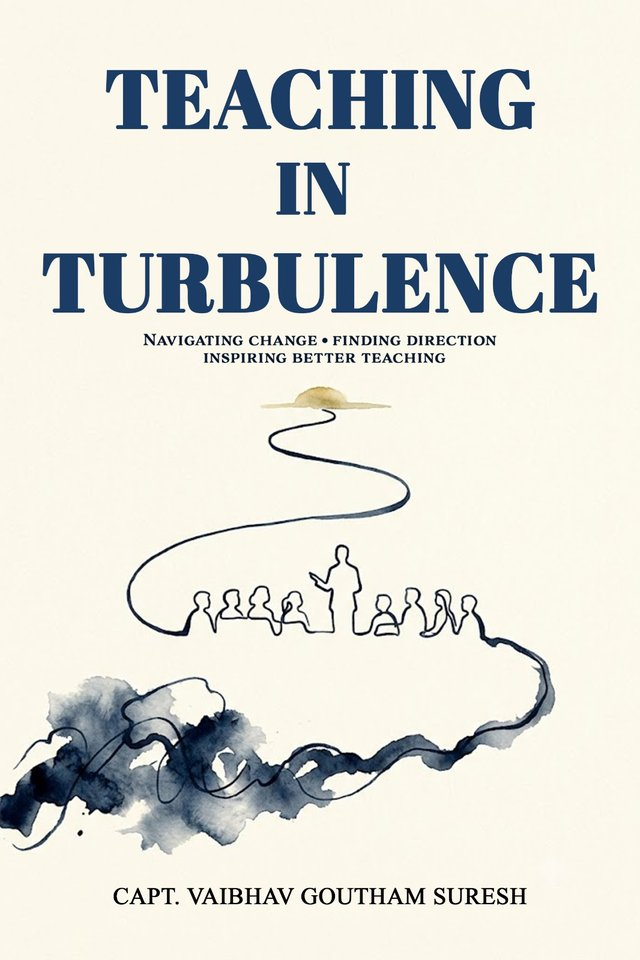
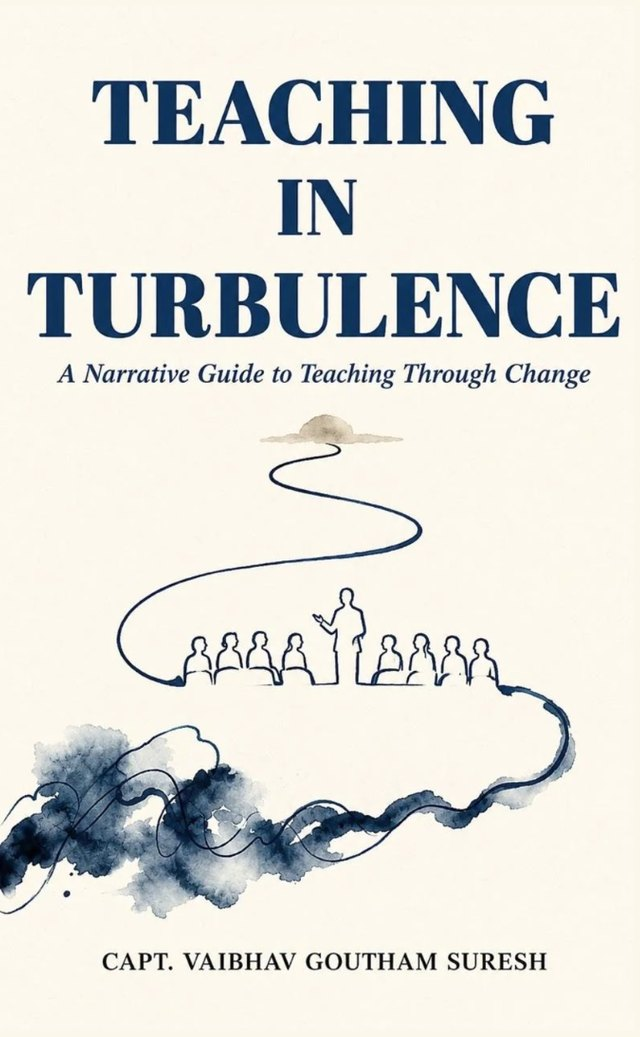
Add final cover, full foreword and updated author text
Claude-Session: https://claude.ai/code/session_01JsisHFJQv3rMVfURYEUcmk

diff --git a/index.html b/index.html
@@ -4,7 +4,7 @@
 <meta charset="utf-8">
 <meta name="viewport" content="width=device-width, initial-scale=1">
 <title>Teaching in Turbulence | Capt. Vaibhav Goutham Suresh</title>
-<meta name="description" content="Teaching in Turbulence: A Narrative Guide to Teaching in Indian Higher Education, by Capt. Vaibhav Goutham Suresh. Foreword by Shri Anand Kumar. Out 7 December 2026.">
+<meta name="description" content="Teaching in Turbulence: A Narrative Guide to Teaching Through Change, by Capt. Vaibhav Goutham Suresh. Foreword by Shri Anand Kumar. Out 7 December 2026.">
 <meta property="og:title" content="Teaching in Turbulence">
 <meta property="og:description" content="A book you read like a novel and use like a manual. Out 7 December 2026.">
 <meta property="og:image" content="https://teachinginturbulence.com/assets/cover.jpg">
@@ -73,7 +73,7 @@ header{position:sticky;top:0;z-index:20;background:rgba(251,247,236,.94);backdro
 .cover-wrap{position:relative;justify-self:center}
 .cover-wrap::before{content:"";position:absolute;inset:-34px -40px -20px;background:radial-gradient(closest-side,rgba(241,222,179,.85),rgba(241,222,179,0));z-index:0}
 .cover{position:relative;z-index:1;width:min(380px,100%);border-radius:4px 10px 10px 4px;box-shadow:0 2px 0 rgba(0,0,0,.04),0 28px 60px -12px rgba(27,60,101,.38),0 10px 22px rgba(27,60,101,.12);transform:rotate(1.5deg)}
-.launch-tag{position:absolute;z-index:2;left:-34px;bottom:46px;background:var(--white);border:1px solid var(--line);border-radius:14px;padding:12px 16px;box-shadow:0 12px 30px rgba(27,60,101,.14);font:600 13px/1.3 var(--sans);color:var(--muted)}
+.launch-tag{position:absolute;z-index:2;left:-40px;bottom:-26px;background:var(--white);border:1px solid var(--line);border-radius:14px;padding:12px 16px;box-shadow:0 12px 30px rgba(27,60,101,.14);font:600 13px/1.3 var(--sans);color:var(--muted)}
 .launch-tag b{display:block;font:800 20px/1.2 var(--serif);color:var(--ink)}
 .storm{position:absolute;left:-40px;bottom:-10px;width:560px;opacity:.35;pointer-events:none}
 .signup{position:relative;overflow:hidden}
@@ -156,7 +156,15 @@ section.block{padding:96px 0}
 .fw-role{font-size:18px;color:var(--gold-soft);margin:8px 0 28px}
 .fw-quote{margin:0 0 28px;padding:4px 0 4px 26px;border-left:4px solid var(--gold);font:italic 600 26px/1.45 var(--serif);color:var(--white)}
 .fw-quote .todo{display:inline-block;font:500 16px/1.5 var(--sans);font-style:normal;color:var(--ink);background:var(--gold-soft);border-radius:8px;padding:8px 12px}
-.fw-text>p:last-child{font-size:18px;margin:0}
+.fw-intro{font-size:18px;margin:0 0 28px}
+.fw-toggle{background:var(--gold);color:var(--ink);border:0;cursor:pointer}
+.fw-toggle:hover{background:var(--gold-soft)}
+.fw-full{margin-top:56px}
+.fw-paper{background:var(--cream);color:var(--text);border-radius:22px;padding:56px clamp(24px,7vw,110px);max-width:860px;margin:0 auto;font:400 19px/1.75 "Bitter",Georgia,serif;box-shadow:0 30px 60px -20px rgba(0,0,0,.45)}
+.fw-paper .eyebrow{color:var(--gold);font-family:var(--sans)}
+.fw-paper p{margin:0 0 20px}
+.fw-sign{margin-top:36px !important;font-family:var(--sans);font-size:17px;line-height:1.5;color:var(--muted)}
+.fw-sign strong{font:800 22px var(--serif);color:var(--ink)}
 
 /* Audience */
 .aud-grid{display:grid;grid-template-columns:repeat(3,1fr);gap:22px}
@@ -228,6 +236,8 @@ footer a:hover{color:var(--white);text-decoration:underline}
   .fw-grid{grid-template-columns:1fr;gap:40px}
   .foreword{padding:68px 0}
   .fw-quote{font-size:21px}
+  .fw-paper{padding:30px 22px;font-size:17px}
+  .fw-full{margin-top:36px}
   .strip .wrap{flex-direction:column}
   .strip .label{margin:0 0 6px}
   .strip ul{justify-content:center;font-size:15px;row-gap:8px}
@@ -279,7 +289,7 @@ footer a:hover{color:var(--white);text-decoration:underline}
 <section class="hero">
   <div class="wrap hero-grid">
     <div>
-      <p class="eyebrow">A Narrative Guide to Teaching in Indian Higher Education</p>
+      <p class="eyebrow">A Narrative Guide to Teaching Through Change</p>
       <h1>Turbulence is not something to fear. <em>It is something to navigate.</em></h1>
       <p class="lead">Every week, hundreds of young people walk into a classroom and trust that the person at the front knows how to teach them. Most of those teachers were never taught how. <strong>Teaching in Turbulence</strong> is written to close that gap.</p>
       <div class="cta-row">
@@ -413,7 +423,35 @@ footer a:hover{color:var(--white);text-decoration:underline}
       <p class="eyebrow">The Foreword</p>
       <h2>Shri Anand Kumar</h2>
       <p class="fw-role">Founder of Super 30, Padma Shri awardee</p>
-      <p>His life's work is living proof that great teaching can change the entire trajectory of a young person, no matter where they begin. His words speak to the heart of this book: that teaching is not a routine to be performed, but a craft that can be learned, sharpened and honoured.</p>
+      <blockquote class="fw-quote">&ldquo;Sometimes, all that stands between a child and a better future is a teacher who believes in them.&rdquo;</blockquote>
+      <p class="fw-intro">In his foreword, Shri Anand Kumar writes about the ordinary teachers who quietly shape the future of our country, and why, in an age of artificial intelligence, a teacher&rsquo;s belief in a child still changes everything.</p>
+      <button class="btn fw-toggle" type="button" aria-expanded="false" aria-controls="fwFull">Read the full foreword <span class="arrow">&darr;</span></button>
+    </div>
+  </div>
+  <div class="wrap">
+    <div class="fw-full" id="fwFull" hidden>
+      <div class="fw-paper">
+        <p class="eyebrow">Foreword</p>
+          <p>Over the years, I have seen the same dream in the eyes of countless children. A dream of becoming someone. Of rising above poverty. Of being given just one chance to prove what they are capable of.</p>
+          <p>My journey has taught me something simple: talent does not depend on privilege. Sometimes, all that stands between a child and a better future is a teacher who believes in them.</p>
+          <p>Reading Captain Vaibhav&rsquo;s book brought me back to this truth.</p>
+          <p>Much has been written about education. Yet surprisingly little is said about the ordinary teachers who quietly shape the future of our country, often in small classrooms, remote villages, and places where resources are scarce but hopes are not.</p>
+          <p>This book tells their story.</p>
+          <p>It brings together twelve teachers for ten days. Each carries a different burden, a different disappointment, and a different reason to question the path they once chose. But as their journeys unfold, they begin to rediscover something they had almost forgotten: why they wanted to become teachers in the first place.</p>
+          <p>What struck me most about this book is its simplicity and honesty. It reminds us that meaningful education is not necessarily about impressive buildings, expensive technology, or sophisticated facilities. Sometimes, a dedicated teacher in a modest classroom can accomplish what even the finest infrastructure cannot.</p>
+          <p>I have witnessed this throughout my journey with Super 30. Many of the children who came to us could barely afford books, yet their dreams were enormous. Teaching them mathematics was important. But even more important was helping them believe that their circumstances did not have to determine their future.</p>
+          <p>That belief can change everything.</p>
+          <p>We now live in an age of artificial intelligence, when machines can solve complex problems in seconds. But there is something technology cannot easily replace: the ability of a teacher to look into the eyes of a frightened child and say, with genuine conviction, &ldquo;You can do it.&rdquo;</p>
+          <p>Sometimes, those four words are more powerful than an entire textbook.</p>
+          <p>To every teacher reading this, I want to say something from my own experience. There will be days when your efforts seem unnoticed, when progress feels painfully slow, and when you wonder whether anything you do really matters.</p>
+          <p>On those days, remember that somewhere in your classroom may be a child whose entire life will change because of something you said, a little encouragement you offered, or simply because you refused to give up on them.</p>
+          <p>You may never know the difference you made.</p>
+          <p>But that does not make the difference any less real.</p>
+          <p>Perhaps the greatest contribution of a teacher is not what happens inside a classroom today, but what becomes possible in the lives of children tomorrow.</p>
+          <p>Captain Vaibhav&rsquo;s book does more than explore the challenges of teaching. It reminds teachers of the hopes that first brought them into the classroom, and of the extraordinary influence they continue to have, often without realising it.</p>
+          <p>At a time when education is increasingly measured by marks, rankings, and technology, that is a reminder worth holding on to.</p>
+        <p class="fw-sign"><strong>Anand Kumar</strong><br>Founder, Super 30<br>Padma Shri Awardee</p>
+      </div>
     </div>
   </div>
 </section>
@@ -440,7 +478,7 @@ footer a:hover{color:var(--white);text-decoration:underline}
       <p class="eyebrow">About the author</p>
       <h2>From the cockpit to the classroom</h2>
       <p>Capt. Vaibhav Goutham Suresh writes from a path very few in academia have travelled. He began his working life in the cockpit as a commercial pilot, and went on to work across almost every corner of the aviation industry before turning to teaching and academic leadership. That journey, from flying to management to the classroom, is the reason this book sounds like no other. It is written by someone who has had to learn, unlearn and relearn his own craft in the real world, under real pressure, in a profession where mistakes carry consequences.</p>
-      <p>He holds a Commercial Pilot Licence, an MBA from IIM Bangalore and Toulouse Business School, and a degree in law, and is completing doctoral research on the Indian airline industry. Today he leads a university school spanning aviation, logistics and tourism, and chairs academic policy across a group of non-engineering schools. His work sits at the centre of how teaching is actually shaped: redesigning programmes and curricula, reforming the way students are assessed, giving real-world experience genuine academic weight, and building the structures through which a large faculty is mentored, trained and renewed. Developing teachers is not a side interest for him. It is the heart of what he does, and this book grows directly out of that work.</p>
+      <p>He holds a Commercial Pilot Licence, an MBA from IIM Bangalore and Toulouse Business School, and a degree in law, and is completing doctoral research on the Indian airline industry. Today he leads a university school and chairs academic policy across a group of non-engineering schools. His work sits at the centre of how teaching is actually shaped: redesigning programmes and curricula, reforming the way students are assessed, giving real-world experience genuine academic weight, and building the structures through which a large faculty is mentored, trained and renewed. Developing teachers is the heart of what he does, and this book grows directly out of that work.</p>
       <p>What drives him, and this book, is a simple conviction: that teaching in India deserves to be approached with the same rigour, honesty and care as any high-stakes profession. Teaching in Turbulence is his effort to place that conviction in the hands of every teacher who wants to do the work, and do it well.</p>
     </div>
   </div>
@@ -492,6 +530,10 @@ function tick(){let s=Math.max(0,(launch-new Date())/1000);
   document.getElementById('h').textContent=String(Math.floor(s%86400/3600)).padStart(2,'0');
   document.getElementById('m').textContent=String(Math.floor(s%3600/60)).padStart(2,'0');}
 tick();setInterval(tick,30000);
+const fwBtn=document.querySelector('.fw-toggle'),fwFull=document.getElementById('fwFull');
+fwBtn.addEventListener('click',()=>{const open=fwFull.hidden;fwFull.hidden=!open;fwBtn.setAttribute('aria-expanded',open);
+  fwBtn.innerHTML=open?'Close the foreword <span class="arrow">&uarr;</span>':'Read the full foreword <span class="arrow">&darr;</span>';
+  if(!open)document.getElementById('foreword').scrollIntoView({behavior:'smooth'});});
 document.getElementById('signupForm').addEventListener('submit',e=>{e.preventDefault();document.querySelector('#signupForm .fine').textContent='Thank you. Sign-ups open very soon, please check back shortly.'});
 </script>
 </body>

diff --git a/README.md b/README.md
@@ -1,6 +1,6 @@
 # Teaching in Turbulence
 
-*A Narrative Guide to Teaching in Indian Higher Education*, by Capt. Vaibhav Goutham Suresh.
+*A Narrative Guide to Teaching Through Change*, by Capt. Vaibhav Goutham Suresh.
 Foreword by Shri Anand Kumar, founder of Super 30 and Padma Shri awardee.
 
 Out on 7 December 2026. Website: [teachinginturbulence.com](https://teachinginturbulence.com)
